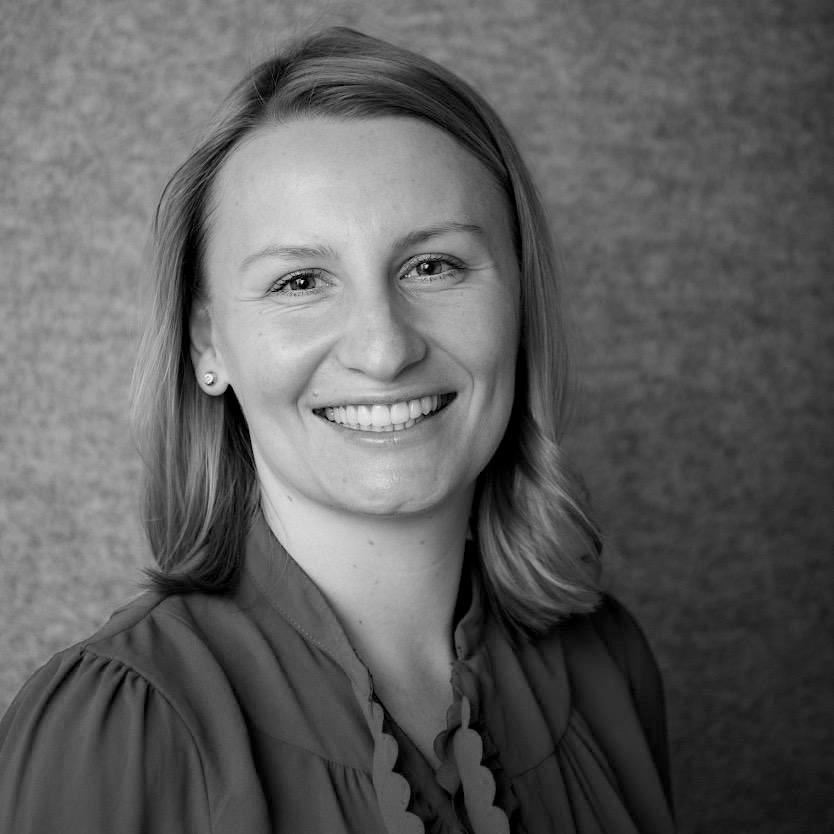
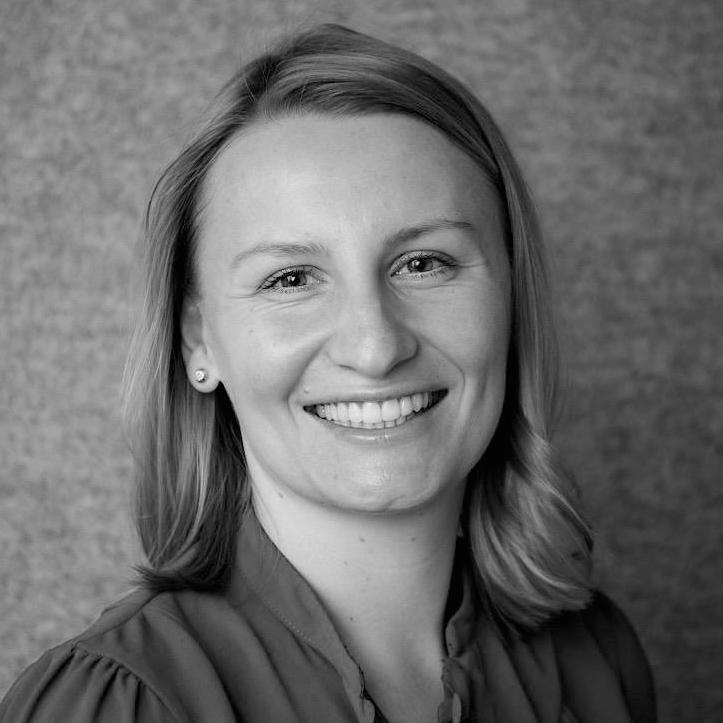
cleaned up html and fixed team images

diff --git a/app/team.html b/app/team.html
@@ -33,7 +33,7 @@
     <link rel="canonical" href="http://www.example.com/">
     -->
 
-  <link href='http://fonts.googleapis.com/css?family=Open+Sans:300italic,400,300,600,700,800' rel='stylesheet' type='text/css'>
+  <link href="http://fonts.googleapis.com/css?family=Open+Sans:300italic,400,300,600,700,800' rel='stylesheet' type='text/css">
   <link href="http://fonts.googleapis.com/css?family=Raleway:400,200%7CMontserrat:400,700%7CMerriweather:300,700" rel="stylesheet" type="text/css">
   <!-- build:css(.tmp/) styles/team/main.min.css -->
   <link rel="stylesheet" href="styles/h5bp.css">
@@ -46,10 +46,10 @@
   <!-- Navbar -->
   <nav id="nav-bar">
     <ul class="nav-bar__list">
-      <li class='nav-bar__list-icon'>
-        <a href="/#nav-dropdown"><div class='nav-mk__icon--lg'></div></a>
+      <li class="nav-bar__list-icon">
+        <a href="/#nav-dropdown"><div class="nav-mk__icon--lg"></div></a>
       </li>
-      <li class='last'><a href="/#contact">contact</a></li>
+      <li class="last"><a href="/#contact">contact</a></li>
       <li><a href="http://blog.makapen.co/" target="_blank">blog</a></li>
       <li><a href="team.html" class="active-link">team</a></li>
       <li><a href="portfolio.html">portfolio</a></li>
@@ -84,7 +84,7 @@
   <div id="about" class="section section--top section--dark">
     <div class="col">
       <h1>Makapen Team<span class="blue-slash">\</span></h1>
-      <h2>Our team is committed to strong collaboration, open communication, and learning.</h2>
+      <h2>Our team is committed to strong collaboration, open communication, and excellence.</h2>
       <p>We are technology enthusiasts who work together to deliver quality code, delightful experiences, and unparalleled customer service. We build software, climb mountains, and drink cold beer together. You can’t ask more ‘good stuff’ in one place!</p>
       <a href="#team-members" class="arrow-link padding-top">
         <span class="fa fa-chevron-down fa-2 scroll-arrow"></span>
@@ -107,7 +107,7 @@
         </div>
       </div>
       <section class="team-members__content">
-        <h1>Ewelina Kieley<span class="blue-slash">\</slash></h1>
+        <h1>Ewelina Kieley<span class="blue-slash">\</span></h1>
         <p class="grey-text">CEO</p>
         <p>Ewelina is focused on helping entrepreneurs solve their software needs. She also supports the development process. Her interests span people management, business development, design, and tech. She also loves the great outdoors!</p>
       </section>
@@ -125,7 +125,7 @@
         </div>
       </div>
       <section class="team-members__content">
-        <h1>Thibaut Labarre<span class="blue-slash">\</slash></h1>
+        <h1>Thibaut Labarre<span class="blue-slash">\</span></h1>
         <p class="grey-text">Co-Founder</p>
         <p>Thibaut is a full stack web developer and a master of "out of the box" solutions. He regulary introduces new tech trends to our team. He's always hacking on a software project, but sometimes can be found rowing or at cultural events around town.</p>
       </section>
@@ -143,7 +143,7 @@
         </div>
       </div>
       <section class="team-members__content">
-        <h1>Stephen Prockow<span class="blue-slash">\</slash></h1>
+        <h1>Stephen Prockow<span class="blue-slash">\</span></h1>
         <p class="grey-text">Co-Founder</p>
         <p>Stephen is a full stack web developer who loves architecting software solutions. He crafted many of our client's MVPs as well as Makapen's tooling. When not coding or following tech blogs, Stephen can be found conquering PWN hills on ski or foot.</p>
       </section>
@@ -190,10 +190,10 @@
     <div class="footer__content">
       <ul class="footer__ul">
        <li class="padding-r-md">
-          <a href="//www.linkedin.com/company/makapen-co" target="_blank"><span class="fa-stack fa-2x"><i class="fa fa-stack-2x"></i><i class="fa fa-linkedin fa-stack-1x circle"></i></a>
+           <a href="//www.linkedin.com/company/makapen-co" target="_blank"><span class="fa-stack fa-2x"><i class="fa fa-stack-2x"></i><i class="fa fa-linkedin fa-stack-1x circle"></i></span></a>
         </li>
         <li class="padding-r-md">
-          <a href="//www.facebook.com/Makapen.co" target="_blank"><span class="fa-stack fa-2x"><i class="fa fa-stack-2x"></i><i class="fa fa-facebook fa-stack-1x circle"></i></a>
+            <a href="//www.facebook.com/Makapen.co" target="_blank"><span class="fa-stack fa-2x"><i class="fa fa-stack-2x"></i><i class="fa fa-facebook fa-stack-1x circle"></i></span></a>
         </li>
         <li>
           <a href="//twitter.com/makapen_co" target="_blank"><span class="fa-stack fa-2x"><i class="fa fa-stack-2x"></i><i class="fa fa-twitter fa-stack-1x circle"></i></span></a>

diff --git a/app/portfolio.html b/app/portfolio.html
@@ -31,7 +31,7 @@
   <!--
     <link rel="canonical" href="http://www.example.com/">
     -->
-  <link href='http://fonts.googleapis.com/css?family=Open+Sans:300italic,400,300,600,700,800' rel='stylesheet' type='text/css'>
+  <link href="http://fonts.googleapis.com/css?family=Open+Sans:300italic,400,300,600,700,800" rel="stylesheet" type="text/css">
   <link href="http://fonts.googleapis.com/css?family=Raleway:400,200%7CMontserrat:400,700%7CMerriweather:300,700" rel="stylesheet" type="text/css">
 
   <!-- build:css(.tmp/) styles/team/main.min.css -->
@@ -45,10 +45,11 @@
   <!-- Navbar -->
   <nav id="nav-bar">
     <ul class="nav-bar__list">
-      <li class='nav-bar__list-icon'>
-        <a href="/#nav-dropdown"><div class='nav-mk__icon--lg'></div></a>
+      <li class="nav-bar__list-icon">
+        <a href="/#nav-dropdown"><div class="nav-mk__icon--lg"></div></a>
       </li>
-      <li class='last'><a href="/#contact">CONTACT</a></li>
+      <li class="last"><a href="/#contact">CONTACT</a></li>
+      <li><a href="http://blog.makapen.co/" target="_blank">BLOG</a></li>
       <li><a href="team.html">team</a></li>
       <li><a href="portfolio.html" class="active-link">portfolio</a></li>
     </ul>
@@ -153,7 +154,7 @@
         <img src="/images/logos/hype_park_dark.png" alt="Hype Park Logo" id="hp__img">
         <section class="testimonial__content">
           <p>"We have been amazed by how quickly they delivered the product, which was faster than the other contractors we benchmarked, and by how professional they were in the after-sale, making sure that everything was conformed to what we discussed and ready to tweak it if not."</p>
-          <h1>Hélène Beauregard<span class="blue-slash">\</slash></h1>
+          <h1>Hélène Beauregard<span class="blue-slash">\</span></h1>
           <p class="grey-text rmv-m-btm">CEO Hype Park</p>
         </section>
       </div>
@@ -162,7 +163,7 @@
         <img src="/images/logos/gk_dark.png" alt="Green Krate Logo" id="gk__img">
         <section class="testimonial__content">
           <p>I’ve really enjoyed working with the Makapen team. They feel like real partners in my business in that they listen, care, and put forth their best advice when working on my product. Being in the early stage of my business it’s great to get this level of support while remaining flexible.</p>
-          <h1>Kivin Varghese<span class="blue-slash">\</slash></h1>
+          <h1>Kivin Varghese<span class="blue-slash">\</span></h1>
           <p class="grey-text rmv-m-btm">CEO GreenKrate</p>
         </section>
       </div>
@@ -171,7 +172,7 @@
         <img src="/images/logos/pawzii.png" alt="Pawzii Logo" id="pawzii__img">
         <section class="testimonial__content">
           <p>"I love working with the Makapen team because our relationship goes beyond the general business/client shtick; I felt like Makapen was in my corner, shared my feelings and vision, and diligently strived to achieve a stunning result. It's such a rare quality and why I immensely value collaborating with Makapen."</p>
-          <h1>Alec Matias<span class="blue-slash">\</slash></h1>
+          <h1>Alec Matias<span class="blue-slash">\</span></h1>
           <p class="grey-text rmv-m-btm">CEO Pawzii</p>
         </section>
       </div>
@@ -198,10 +199,10 @@
     <div class="footer__content">
       <ul class="footer__ul">
        <li class="padding-r-md">
-          <a href="//www.linkedin.com/company/makapen-co" target="_blank"><span class="fa-stack fa-2x"><i class="fa fa-stack-2x"></i><i class="fa fa-linkedin fa-stack-1x circle"></i></a>
+           <a href="//www.linkedin.com/company/makapen-co" target="_blank"><span class="fa-stack fa-2x"><i class="fa fa-stack-2x"></i><i class="fa fa-linkedin fa-stack-1x circle"></i></span></a>
         </li>
         <li class="padding-r-md">
-          <a href="//www.facebook.com/Makapen.co" target="_blank"><span class="fa-stack fa-2x"><i class="fa fa-stack-2x"></i><i class="fa fa-facebook fa-stack-1x circle"></i></a>
+            <a href="//www.facebook.com/Makapen.co" target="_blank"><span class="fa-stack fa-2x"><i class="fa fa-stack-2x"></i><i class="fa fa-facebook fa-stack-1x circle"></i></span></a>
         </li>
         <li>
           <a href="//twitter.com/makapen_co" target="_blank"><span class="fa-stack fa-2x"><i class="fa fa-stack-2x"></i><i class="fa fa-twitter fa-stack-1x circle"></i></span></a>

diff --git a/app/index.html b/app/index.html
@@ -10,7 +10,7 @@
   <!-- Basic Info -->
   <title>Makapen Co | Web Development Agency for Startups</title>
   <meta name="author" content="Makapen Co">
-  <meta name="keywords" content="Full stack, Web Agency, MVP, Rapid Prototype, Development, Dev, Website, Web, Mobile, Application, Design, Agile, SaaS">
+  <meta name="keywords" content="Full stack, Web Agency, MVP, Rapid Prototype, Development, Dev, Website, Web, Mobile, Application, Design, Agile, SaaS, Auth0, Firebase, Javascript, Landing Page">
 
   <!-- Favicons -->
   <link rel="icon" href="images/favicons/favicon.ico" type="image/x-icon">
@@ -93,7 +93,7 @@
       <!-- <h1>Mission<span class="blue-slash">\</span></h1> -->
       <h2>We're a web agency focused on early stage products and harnessing the power of existing tools to bring the most value to the software we build.</h2>
       <!-- <h2>Small team working on big challenges in collaboration with our clients.</h2> -->
-      <p>What makes Makapen different? We regularly survey and test web technologies to harness the power of existing tools to bring the most value to the software we build. We are a small team working on big challenges in an empathetic and honest collaboration with our clients. We make a huge impact by enabling our clients to prototype, test against real users, and get to market quickly with a viable product.</p>
+      <p>What makes Makapen different? We regularly survey and test web technologies to ensure we are baking in the best and latest technology into your product. We are a small team working on big challenges in an empathetic and honest collaboration with our clients. We make a huge impact by enabling our clients to prototype, test against real users, and get to market quickly with a viable product.</p>
       <a href="#process" class="arrow-link">
         <span class="fa fa-chevron-down fa-2 scroll-arrow"></span>
       </a>
@@ -119,8 +119,8 @@
         </div>
         <div class="two-cols-description-text section--right section--white">
           <h1>Iterate<span class="blue-slash">\</span></h1>
-          <p>We deliver a fully functioning product starting from Sprint 1! Our process begins with identifying features and goals for each sprint. Then we work on implementation for 2 weeks while giving you access to our progress so that your feedback can be incorporated real time instead of after the fact. When we deliver results, you already know what to expect, and are ready to move to the next step.</p>
-          <p>Our pricing is fixed and estimated prior to each sprint. This leaves you with no surprises about costs while allowing the project to remain flexible as we iterate every two weeks. Because the product is functioning and hosted from the beginning, you can begin testing your software and incorporate the results as you plan next features.</p>
+          <p>We deliver a fully functioning product starting from Sprint 1! Our process begins with identifying features and goals for each sprint. Then we work on implementation for 2 weeks while giving you access to our progress so that your feedback can be incorporated real time. When we deliver results, you already know what to expect.</p>
+          <p>Our pricing is fixed and estimated prior to each sprint. This leaves you with no surprises about costs. Because the product is functioning and hosted from the beginning, you can begin testing your software any time.</p>
         </div>
       </div>
       <!-- Process Row #3 -->
@@ -188,7 +188,7 @@
         </section>
         <div class="contact_infos">
           <div class="contact_mail">
-            <h1><a href="mailto:admin@makapen.co" class="contact_mail_a">admin@makapen.co</a></h1>
+            <h1><a href="mailto:admin@makapen.co" class="contact_mail_a">contact@makapen.co</a></h1>
           </div>
           <div class="contact_social">
             <ul class="footer__ul">
